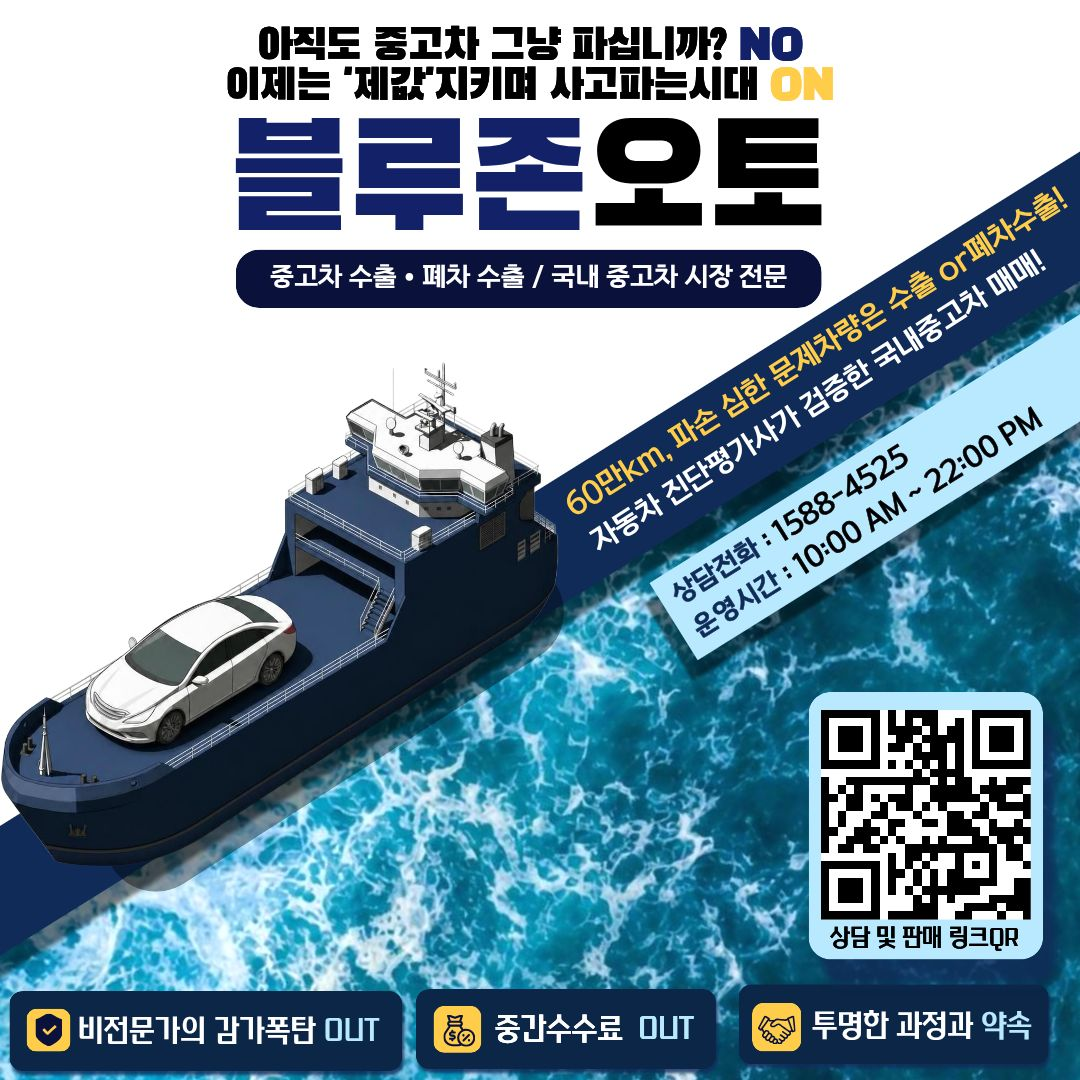
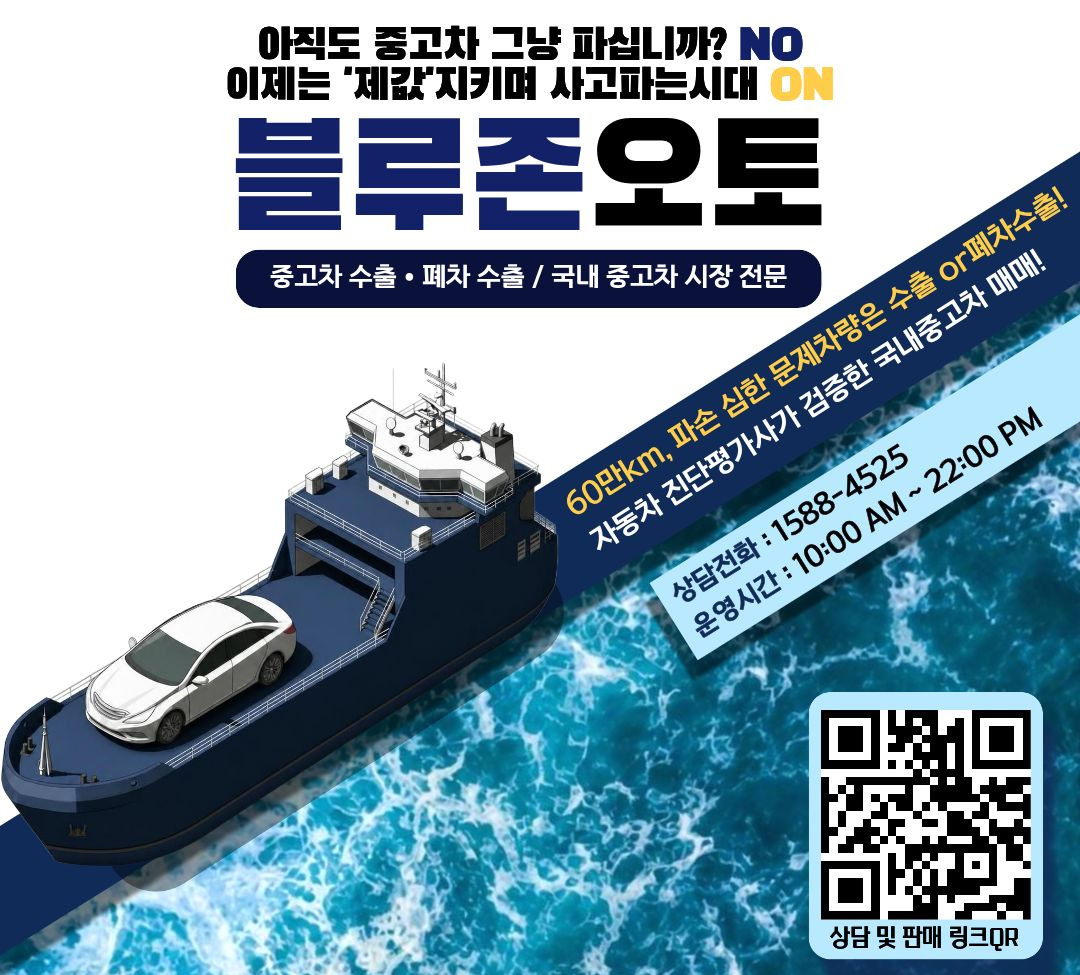
Add files via upload

diff --git a/index.html b/index.html
@@ -50,9 +50,9 @@ button,input,select,textarea{font:inherit;color:inherit}
 .logo.sm .tag{font-size:12px}.logo.sm .name{font-size:44px}.logo.sm .pill{font-size:11px;padding:4px 16px}
 
 /* ---------- HERO (원본 이미지 그대로 + 움직이는 물결) ---------- */
-.hero{position:relative;height:680px;background:#fff;overflow:hidden}
+.hero{position:relative;height:617px;background:#fff;overflow:hidden}
 .hero-scale{position:absolute;inset:0}
-.hero .top{position:absolute;left:0;top:0;width:680px;height:680px;display:block;object-fit:cover}
+.hero .top{position:absolute;left:0;top:0;width:680px;height:617px;display:block;object-fit:cover}
 .hero .zone{position:absolute;left:0;top:500px;width:681px;height:210px}
 .hero .wave{position:absolute;left:0;right:0;bottom:-2px;height:210px}
 .hero .wave svg{position:absolute;left:0;bottom:0;width:200%;height:100%;display:block;will-change:transform}
@@ -62,8 +62,9 @@ button,input,select,textarea{font:inherit;color:inherit}
 @keyframes drift{from{transform:translateX(0)}to{transform:translateX(-50%)}}
 @media (prefers-reduced-motion:reduce){.hero .wave svg{animation:none}}
 /* 히어로 아래 물결 띠 (예전 3겹 물결 그대로, 바다 텍스처 위에) */
-.waveband{--u:min(1px,calc(100vw / 680));position:relative;height:calc(150*var(--u));background:url(assets/hero_seafill.jpg) center/cover;overflow:hidden}
-.waveband svg{position:absolute;left:0;bottom:0;width:200%;height:100%;display:block;will-change:transform}
+.waveband{--u:min(1px,calc(100vw / 680));position:relative;z-index:1;height:calc(202*var(--u));margin-top:calc(-12*var(--u));background:url(assets/wave_bg.jpg) center/cover;overflow:hidden;-webkit-mask-image:linear-gradient(to bottom,rgba(0,0,0,0) 0,#000 calc(16*var(--u)));mask-image:linear-gradient(to bottom,rgba(0,0,0,0) 0,#000 calc(16*var(--u)))}
+.waveband .badges{position:absolute;left:0;top:calc(12*var(--u));width:100%;height:auto;display:block;filter:drop-shadow(0 4px 3px rgba(0,0,0,.35));z-index:2}
+.waveband svg{position:absolute;left:0;bottom:0;width:200%;height:calc(150*var(--u));display:block;will-change:transform}
 .waveband .w1{animation:drift 16s linear infinite}
 .waveband .w2{animation:drift 11s linear infinite reverse}
 .waveband .w3{animation:drift 8s linear infinite}
@@ -96,58 +97,59 @@ button,input,select,textarea{font:inherit;color:inherit}
 .pcard h3 .or-y{color:#E0A800}
 .pdesc{text-align:center;font-family:var(--thin);font-size:18px;line-height:1.55;padding:22px 0 26px;color:#fff}
 
-/* ---------- 해결 ---------- */
-.solve{padding:56px 24px 8px;text-align:center}
-.solve h2{font-family:var(--bold);font-size:48px;line-height:1.1;color:var(--navy);margin:0}
-/* 수출 / 국내 중고차 매매 소개 블록 */
-.svc{padding:34px 24px 44px;text-align:center}
-.svc .tagpill{display:inline-block;background:var(--sky-hl);color:var(--navy);font-family:var(--bold);font-size:28px;line-height:1;padding:10px 26px}
-.svc .photo{margin:22px -24px 0}
-.svc .photo img{width:100%;height:380px;object-fit:cover;display:block}
-.svc .q{font-family:var(--thin);font-size:24px;line-height:1.45;color:var(--navy);margin-top:24px}
-.svc .q b{font-family:var(--bold);font-weight:400;font-size:28px;display:inline-block;margin-top:6px}
-.svc .dest{font-family:var(--thin);font-size:20px;color:var(--navy);margin-top:16px}
-.svc .dest b{font-family:var(--bold);font-weight:400;background:var(--sun);padding:2px 10px}
-.svc+.doubt{padding-top:calc(20*var(--u))}
-
-/* ---------- 약속 ---------- */
-/* 카드(794px) 실측값을 680px 기준으로 환산, 화면이 좁아지면 카드처럼 통째로 비례 축소 */
-.promises,.doubt{--u:min(1px,calc(100vw / 680))}
-.promises{padding:calc(40*var(--u)) 24px calc(40*var(--u));text-align:center;border-top:1px solid #E3E7EE}
+/* ---------- 해결 ~ 운영 철칙: 사용자 PDF(645pt=680px) 실측값, --u로 휴대폰 비례 축소 ---------- */
+.pdfblk{--u:min(1px,calc(100vw / 680));text-align:center;color:var(--navy)}
+.pdfblk .solve{height:calc(221*var(--u));border-bottom:1px solid #E7E7E7;padding-top:calc(66*var(--u))}
+.pdfblk .solve h2{font-family:var(--bold);font-size:calc(48*var(--u));line-height:calc(50*var(--u));color:#102B56;margin:0}
+.pdfblk .svc .band{background:var(--navy);height:calc(104*var(--u));padding-top:calc(3*var(--u));color:#fff}
+.pdfblk .svc .band.tall{height:calc(166*var(--u));padding-top:calc(21*var(--u))}
+.pdfblk .svc .tag{display:inline-block;background:var(--sky-hl);color:var(--navy);font-family:var(--bold);font-size:calc(19*var(--u));line-height:calc(23*var(--u));padding:calc(4*var(--u)) calc(21*var(--u))}
+.pdfblk .svc .band p{font-family:var(--thin);font-style:italic;font-size:calc(20*var(--u));line-height:calc(28*var(--u));margin:calc(10*var(--u)) 0 0}
+.pdfblk .svc .photo{position:relative;line-height:0}
+.pdfblk .svc .photo img{width:100%;object-fit:cover;display:block}
+.pdfblk .svc .photo.ship img{height:calc(411*var(--u))}
+.pdfblk .svc .photo.lot img{height:calc(424*var(--u))}
+.pdfblk .svc .dest{position:absolute;right:calc(24*var(--u));bottom:calc(16*var(--u));color:#fff;font-family:var(--thin);font-size:calc(16*var(--u));line-height:1.2;text-shadow:0 1px 4px rgba(0,0,0,.5)}
+.pdfblk .rpill{display:inline-block;min-width:calc(269*var(--u));height:calc(44*var(--u));line-height:calc(44*var(--u));border-radius:calc(22*var(--u));background:var(--navy);color:#fff;font-family:var(--thin);font-size:calc(20*var(--u));box-shadow:0 calc(4*var(--u)) 0 rgba(0,0,0,.18)}
+.pdfblk .big{font-family:var(--bold);font-size:calc(41*var(--u));line-height:1;color:#102B56}
+.pdfblk .doubt{padding:calc(80*var(--u)) 0 calc(35*var(--u))}
+.pdfblk .doubt .big{margin-top:calc(27*var(--u))}
+.pdfblk .doubt h3{font-family:var(--bold);font-size:calc(25*var(--u));line-height:calc(28*var(--u));color:#102B56;margin:calc(8*var(--u)) 0 0;white-space:nowrap}
+.pdfblk .doubt h3 .hl-yb{font-size:calc(21.3*var(--u));line-height:calc(23*var(--u));padding:0 calc(8*var(--u));display:inline-block;margin-top:calc(4*var(--u))}
+.pdfblk .doubt .car{width:calc(270*var(--u));height:auto;margin:calc(23*var(--u)) auto 0;display:block}
+.pdfblk .doubt-band{background:var(--navy);color:#fff;font-family:var(--thin);font-size:calc(21*var(--u));line-height:calc(26*var(--u));padding:calc(35*var(--u)) 0 calc(43*var(--u));margin:0}
+.pdfblk .doubt-band .gap{height:calc(28*var(--u))}
+.pdfblk .doubt-band .y{color:var(--sun)}
+.pdfblk .domestic{padding:calc(65*var(--u)) 0 0;border-bottom:1px solid #31485F}
+.pdfblk .domestic .big{margin-top:calc(23*var(--u))}
+.pdfblk .domestic h3{font-family:var(--bold);font-size:calc(24*var(--u));line-height:calc(26*var(--u));color:#102B56;margin:calc(9*var(--u)) 0 0;white-space:nowrap}
+.pdfblk .domestic h3 .hl-yb{padding:calc(2*var(--u)) calc(8*var(--u))}
+.pdfblk .domestic .band{background:var(--navy);color:#fff;font-family:var(--thin);font-size:calc(18*var(--u));line-height:calc(33*var(--u));height:calc(33*var(--u));margin-top:calc(26*var(--u))}
+.pdfblk .domestic .pair{display:flex;align-items:center;justify-content:space-between;padding:calc(28*var(--u)) calc(23*var(--u)) 0}
+.pdfblk .domestic .pair .suv{width:calc(283*var(--u));height:calc(158*var(--u));object-fit:cover;display:block}
+.pdfblk .domestic .arrow{width:calc(50*var(--u));height:calc(40*var(--u));background:var(--navy);clip-path:polygon(0 30%,55% 30%,55% 0,100% 50%,55% 100%,55% 70%,0 70%)}
+.pdfblk .domestic .caps{display:flex;justify-content:space-between;padding:calc(8*var(--u)) calc(23*var(--u)) 0}
+.pdfblk .domestic .caps p{width:calc(283*var(--u));text-align:left;padding-left:calc(12*var(--u));margin:0;font-family:var(--thin);font-size:calc(18*var(--u));line-height:calc(24*var(--u));color:#132169;white-space:nowrap}
+.pdfblk .domestic .caps p .hl-b{padding:0 calc(4*var(--u))}
+.pdfblk .domestic .pair.icons{padding:calc(36*var(--u)) calc(23*var(--u)) 0;align-items:center}
+.pdfblk .domestic .ic1{width:calc(152*var(--u));height:auto;margin-left:calc(53*var(--u))}
+.pdfblk .domestic .ic2{width:calc(104*var(--u));height:auto;margin-right:calc(97*var(--u))}
+.pdfblk .domestic .caps.last{padding-top:calc(37*var(--u));padding-bottom:calc(85*var(--u))}
+.pdfblk .rules{background:var(--navy);height:calc(292*var(--u));padding-top:calc(97*var(--u))}
+.pdfblk .rules h2{font-family:var(--bold);font-size:calc(41*var(--u));line-height:calc(43*var(--u));color:#fff;margin:0}
 .pill{display:inline-block;background:var(--navy);color:#fff;font-family:var(--bold);font-size:26px;padding:6px 30px;border-radius:14px}
-.promises .pill{font-size:calc(38*var(--u));line-height:1.15;padding:calc(12*var(--u)) calc(38*var(--u));border-radius:calc(18*var(--u))}
-.qitem{padding:calc(24*var(--u)) 0 calc(36*var(--u));display:flex;flex-direction:column;align-items:center}
-.qitem+.qitem{border-top:1px solid #C9CDD6}
-.qitem img{height:calc(193*var(--u));width:auto;margin:calc(60*var(--u)) 0 0}
-.qitem h3{font-family:var(--bold);font-size:calc(32*var(--u));line-height:1.45;color:var(--navy);margin:calc(24*var(--u)) 0 0}
-.qitem p{font-family:var(--thin);font-size:calc(24*var(--u));line-height:1.5;color:var(--ink);margin-top:calc(20*var(--u))}
-
-/* ---------- 설마 (파손차) ---------- */
-.doubt{padding:calc(70*var(--u)) 24px 0;text-align:center}
-.doubt .big{font-family:var(--bold);font-size:calc(50*var(--u));color:var(--navy);line-height:1;margin-bottom:calc(10*var(--u))}
-.doubt h3{font-family:var(--bold);font-size:calc(31*var(--u));color:var(--navy);line-height:1.07;margin:0;white-space:nowrap}
-.doubt h3 .hl-yb{font-size:calc(27*var(--u));padding:calc(3*var(--u)) calc(8*var(--u));display:inline-block;margin-top:calc(5*var(--u))}
-.doubt img{width:calc(400*var(--u));margin:calc(33*var(--u)) auto 0}
-.doubt .ok{display:inline-block;background:var(--navy);color:#fff;font-family:var(--thin);font-size:calc(21*var(--u));line-height:1;padding:calc(6*var(--u)) calc(20*var(--u));border-radius:999px;margin-top:calc(19*var(--u));box-shadow:0 4px 0 rgba(0,0,0,.15)}
-.doubt-band{background:var(--navy);color:#fff;text-align:center;padding:40px 24px 44px;margin-top:22px;font-family:var(--thin);font-size:20px;line-height:1.45}
-.doubt-band .gap{height:22px}
-/* ---------- 국내 중고차 매매 (카드 3번, 사이트 크기에 맞춰 키움, --u 비례 축소) ---------- */
-.domestic{--u:min(1px,calc(100vw / 680));padding:calc(40*var(--u)) 0 calc(50*var(--u));text-align:center;background:#fff;border-top:1px solid #E3E7EE}
-.domestic .dpill{display:inline-block;background:var(--navy);color:#fff;font-family:var(--thin);font-size:calc(26*var(--u));line-height:1;padding:calc(12*var(--u)) calc(50*var(--u));border-radius:999px;box-shadow:0 4px 0 rgba(0,0,0,.15)}
-.domestic .big{font-family:var(--bold);font-size:calc(46*var(--u));color:var(--navy);line-height:1;margin-top:0}
-.domestic h3{font-family:var(--bold);font-size:calc(26*var(--u));color:var(--navy);line-height:1.5;margin:calc(8*var(--u)) 0 0;white-space:nowrap}
-.domestic h3 .hl-yb{padding:calc(2*var(--u)) calc(8*var(--u))}
-.domestic .band{background:var(--navy);color:#fff;font-family:var(--thin);font-size:calc(24*var(--u));line-height:1;padding:calc(13*var(--u)) 0;margin-top:calc(28*var(--u))}
-.domestic .pair{display:flex;align-items:center;justify-content:center;gap:calc(12*var(--u));padding:calc(18*var(--u)) calc(14*var(--u)) 0}
-.domestic .gbox{flex:0 0 calc(290*var(--u));background:#EEEEEE;padding-bottom:calc(10*var(--u))}
-.domestic .gbox img{width:100%;height:calc(176*var(--u));object-fit:cover;display:block}
-.domestic .gbox p,.domestic .ibox p{font-family:var(--bold);font-size:calc(19*var(--u));color:var(--navy);margin:calc(12*var(--u)) 0 0;white-space:nowrap}
-.domestic .gbox p .hl-b,.domestic .ibox p .hl-b{padding:0 calc(5*var(--u))}
-.domestic .arrow{flex:0 0 calc(50*var(--u));height:calc(50*var(--u));background:var(--navy);clip-path:polygon(0 30%,55% 30%,55% 0,100% 50%,55% 100%,55% 70%,0 70%)}
-.domestic .pair.icons{padding-top:calc(30*var(--u));align-items:flex-start}
-.domestic .ibox{flex:0 0 calc(290*var(--u))}
-.domestic .ibox img{height:calc(130*var(--u));width:auto;margin:0 auto calc(26*var(--u))}
-.domestic .ibox p{margin-top:0}
+.pdfblk .promises{padding:0 0 calc(40*var(--u))}
+.pdfblk .promises .pill{font-size:calc(24*var(--u));line-height:calc(44*var(--u));height:calc(44*var(--u));padding:0 calc(33*var(--u));border-radius:calc(12*var(--u));min-width:calc(130*var(--u));box-shadow:none}
+.pdfblk .qitem{display:flex;flex-direction:column;align-items:center;padding:calc(28*var(--u)) 0 calc(38*var(--u))}
+.pdfblk .qitem+.qitem{border-top:1px solid #D7D7D7;margin:0 calc(45*var(--u));padding-top:calc(21*var(--u))}
+.pdfblk .qitem img{display:block;margin:calc(38*var(--u)) 0 0}
+.pdfblk .qitem .i1{width:calc(156*var(--u));margin-top:calc(38*var(--u))}
+.pdfblk .qitem .i2{width:calc(149*var(--u));margin-top:calc(42*var(--u))}
+.pdfblk .qitem .i3{width:calc(110*var(--u));margin-top:calc(44*var(--u))}
+.pdfblk .qitem h3{font-family:var(--bold);font-size:calc(24*var(--u));line-height:calc(27*var(--u));color:#102B56;margin:calc(24*var(--u)) 0 0}
+.pdfblk .qitem h3 .hl-y{padding:0 calc(8*var(--u))}
+.pdfblk .qitem p{font-family:var(--thin);font-size:calc(17*var(--u));line-height:calc(22*var(--u));color:#111;margin-top:calc(17*var(--u))}
+.pdfblk .qitem p .hl-b{padding:0 calc(4*var(--u))}
 
 /* ---------- 3단계 ---------- */
 .steps{padding:64px 24px 40px}
@@ -270,7 +272,7 @@ legend .req{font-size:12px;color:#C62828;font-family:var(--thin)}
 .apply .flow .num{background:var(--sun);color:var(--navy);padding:0 6px;font-family:var(--bold)}
 
 /* ---------- 추가 판매옵션 ---------- */
-.options{background:var(--sky);padding:0 0 60px}
+.options{background:var(--sky);padding:0}
 .options .top{padding:60px 24px 0;text-align:center}
 .options .pill{font-family:var(--thin);font-size:28px;padding:8px 46px;border-radius:22px;background:var(--navy)}
 .options .note{margin-top:12px;font-family:var(--thin);font-size:18px;line-height:1.5}
@@ -288,7 +290,6 @@ legend .req{font-size:12px;color:#C62828;font-family:var(--thin)}
 .ocard .box.dark{background:var(--navy);color:#fff}
 .ocard .box.light{background:var(--sky-hl);color:var(--navy)}
 .ocard .ex{margin-top:18px;font-family:var(--thin);font-size:17px;line-height:1.5;color:var(--navy)}
-.options .spacer{background:var(--sky);height:48px}
 
 /* ---------- 폼 메시지 박스 ---------- */
 .fmsg{display:none;margin:14px auto 0;max-width:520px;padding:16px 18px;border-radius:14px;font-family:var(--thin);font-size:16px;line-height:1.6;text-align:center;white-space:pre-line}
@@ -298,8 +299,8 @@ legend .req{font-size:12px;color:#C62828;font-family:var(--thin)}
 .fmsg b{font-family:var(--bold);font-weight:400}
 
 /* ---------- 마무리 배너 ---------- */
-.outro{background:#fff;text-align:center;padding-top:30px}
-.outro .logo-img{width:282px;max-width:80%;height:auto;margin:0 auto 22px}
+.outro{background:#fff;text-align:center;padding-top:44px}
+.outro .logo-img{width:420px;max-width:88%;height:auto;margin:0 auto 30px}
 .ocard .logo-img{width:183px;height:auto}.ocard .logo-img.s{width:146px}
 .outro .logo .tag{color:#141414}
 .outro .logo .tag .no{color:#16246B}
@@ -350,13 +351,11 @@ footer .copy{margin-top:22px;font-size:12px;color:#9AA3B2}
   :root{--col:100%}
   .page{box-shadow:none}
   /* 히어로: 680px 캔버스를 화면 폭에 맞춰 통째로 축소 (PDF 비율 유지) */
-  .hero-scale{position:absolute;left:0;top:0;width:680px;height:680px;transform-origin:top left}
+  .hero-scale{position:absolute;left:0;top:0;width:680px;height:617px;transform-origin:top left}
   .ask h2{font-size:28px}
   .ask .btns{gap:10px}.ask .btn{width:46%;font-size:17px;height:50px}
   .ask .info{font-size:15px}
   .cars h2{font-size:40px}.cars h3{font-size:19px}
-  .solve{padding-top:40px}.solve h2{font-size:34px}
-  .svc .tagpill{font-size:21px;padding:8px 18px}.svc .photo img{height:230px}.svc .q{font-size:18px}.svc .q b{font-size:21px}.svc .dest{font-size:15px}
   .pcard img{height:180px}.pcard h3{font-size:22px}
   .steps .pill{font-size:24px;padding:8px 30px}
   .step{grid-template-columns:120px 1fr;gap:10px}.step .no{left:38px}
@@ -372,7 +371,6 @@ footer .copy{margin-top:22px;font-size:12px;color:#9AA3B2}
   .apply .flow{padding:26px 22px 34px}.apply .flow h4{font-size:20px}.apply .flow p{font-size:16px}
   .options .heads div{font-size:12px}
   .options .cards{gap:8px;padding:12px 10px 0;background:var(--sky);position:relative;z-index:1}
-  .options .spacer{z-index:1}
   .ocard{padding:18px 8px 18px}.logo.sm .name{font-size:32px}.logo.sm .tag{font-size:9px}.logo.sm .pill{font-size:9px;padding:3px 10px}
   .ocard .box{font-size:14px}.ocard .ex{font-size:14px}
   .outro .sea{height:380px;background-position:center center;background-size:cover}.outro .sea .msg{font-size:18px;left:16px;top:16px;right:16px;width:auto}
@@ -392,6 +390,7 @@ footer .copy{margin-top:22px;font-size:12px;color:#9AA3B2}
  </div>
 </section>
 <div class="waveband" aria-hidden="true">
+  <img class="badges" src="assets/badges.png" alt="비전문가의 감가폭탄 OUT · 중간수수료 OUT · 투명한 과정과 약속">
   <svg class="w1" viewBox="0 0 1360 230" preserveAspectRatio="none"><path d="M0,45 C170,5 170,85 340,45 C510,5 510,85 680,45 C850,5 850,85 1020,45 C1190,5 1190,85 1360,45 L1360,230 L0,230 Z" fill="#0B2647" opacity=".55"/></svg>
   <svg class="w2" viewBox="0 0 1360 230" preserveAspectRatio="none"><path d="M0,95 C170,50 170,140 340,95 C510,50 510,140 680,95 C850,50 850,140 1020,95 C1190,50 1190,140 1360,95 L1360,230 L0,230 Z" fill="#0B2647"/></svg>
   <svg class="w3" viewBox="0 0 1360 230" preserveAspectRatio="none"><path d="M0,165 C170,125 170,205 340,165 C510,125 510,205 680,165 C850,125 850,205 1020,165 C1190,125 1190,205 1360,165 L1360,230 L0,230 Z" fill="#ffffff"/></svg>
@@ -428,78 +427,67 @@ footer .copy{margin-top:22px;font-size:12px;color:#9AA3B2}
   <p class="pdesc" style="padding-bottom:6px">불투명한 거래 과정과<br><span class="hl-b">약속과는 다른 금액</span></p>
 </section>
 
-<!-- ================= 해결 ================= -->
-<section class="solve" id="promise">
-  <h2>이제는 블루존오토가<br>해결하겠습니다!</h2>
-</section>
+<!-- ================= 해결 ~ 운영 철칙 (사용자 PDF 5-17 실측 그대로) ================= -->
+<div class="pdfblk">
+<section class="solve" id="promise"><h2>“이제는 블루존오토가<br>해결하겠습니다!”</h2></section>
 
-<!-- ================= 수출 or 수출폐차 ================= -->
 <section class="svc">
-  <span class="tagpill">수출 or 수출폐차</span>
-  <div class="photo"><img src="assets/ship_export.jpg" alt="컨테이너를 실은 수출 화물선"></div>
-  <p class="q">60만km? 파손이 심한 차량?<br><b>모두 제값을 받을 수 있습니다.</b></p>
-  <p class="dest">주요수출국 : <b>러시아 / 몽골 / 중동 / 아프리카</b></p>
+  <div class="band"><span class="tag">수출 or 수출폐차</span><p>60만km? 파손이 심한차량?<br>모두 제값을 받을 수 있습니다.</p></div>
+  <div class="photo ship"><img src="assets/ship_pdf.jpg" alt="컨테이너를 실은 수출 화물선"><span class="dest">주요수출국: 러시아 / 몽골 / 중동 / 아프리카</span></div>
 </section>
 
-<!-- ================= 설마 (파손차) ================= -->
+<section class="svc">
+  <div class="band tall"><span class="tag">국내 중고차 매매</span><p>자동차 진단평가사가<br>검증한 차량과 매매가격으로<br>이제는 안심할 수 있습니다.</p></div>
+  <div class="photo lot"><img src="assets/cars_pdf.jpg" alt="전시된 국내 중고차들"></div>
+</section>
+
 <section class="doubt">
+  <span class="rpill">수출 / 폐차수출</span>
   <div class="big">설마,</div>
   <h3>내 차가 오래되고,<br>연식도 60만km라서?<br>너무 기스가 많고, 파손이 심한 문제차량이라서?<br><span class="hl-yb">판매가 될까 걱정되십니까?</span></h3>
-  <img src="assets/car_wrecked_hd.jpg" alt="">
-  <span class="ok">파손이 심한 차량도 OK</span>
+  <img class="car" src="assets/car_wrecked_hd.jpg" alt="파손이 심한 차량">
 </section>
 <div class="doubt-band">
-  걱정은 이제 그만!<br><span class="y">이렇게 파손된 차량도,<br>그 어떤 차도 가능합니다!</span>
+  걱정은 이제 그만!<br><span class="y">파손된 차량도, 그 어떤 차도 가능합니다!</span>
   <div class="gap"></div>
-  <span class="y">수출 바이어는</span> 부품과 차대의 가치를,<br><span class="y">폐차는</span> 중량과 재활용의 가치를 봅니다.
+  <span class="y">수출바이어는</span> 부품과 차대의가치, 그리고<br>중량과 재활용의 가치를 보기 때문입니다.
 </div>
 
-<!-- ================= 국내 중고차 매매 ================= -->
-<section class="svc">
-  <span class="tagpill">국내 중고차 매매</span>
-  <div class="photo"><img src="assets/cars_lot.jpg" alt="전시된 국내 중고차들"></div>
-  <p class="q">자동차 진단평가사가 검증한<br>차량과 매매가격으로<br><b>이제는 안심할 수 있습니다.</b></p>
-</section>
-
-<!-- ================= 국내 중고차 매매 (카드 3번 그대로) ================= -->
 <section class="domestic">
+  <span class="rpill">국내 중고차 매매</span>
   <div class="big">설마,</div>
   <h3>상태가 좋은 차량임에도<br>제값 받지 못하고 판매할까봐?<br>또는 이런저런 이유로 <span class="hl-yb">구매를 망설이고 있다면?</span></h3>
   <div class="band">1) 차대차 교환(운행중인차 매입교환)</div>
-  <div class="pair">
-    <div class="gbox"><img src="assets/suv_old.jpg" alt="2018년식 모하비"><p><span class="hl-b">예시)</span> 2018년식 모하비 교환+추가금</p></div>
-    <span class="arrow"></span>
-    <div class="gbox"><img src="assets/suv_new.jpg" alt="2022년식 모하비"><p><span class="hl-b">예시)</span> 2022년식 모하비로 교환</p></div>
-  </div>
+  <div class="pair"><img class="suv" src="assets/suv_old.jpg" alt="2018년식 모하비"><span class="arrow"></span><img class="suv" src="assets/suv_new.jpg" alt="2022년식 모하비"></div>
+  <div class="caps"><p><span class="hl-b">예시)</span> 2018년식 모하비 교환+추가금</p><p><span class="hl-b">예시)</span> 2022년식 모하비로 교환</p></div>
   <div class="band">2) 저신용 무조건 할부</div>
-  <div class="pair icons">
-    <div class="ibox"><img src="assets/icon_fraud.png" alt=""><p><span class="hl-b">예시)</span> 저신용자 대상 (파산은 불가능)</p></div>
-    <span class="arrow"></span>
-    <div class="ibox"><img src="assets/icon_receipt.png" alt=""><p><span class="hl-b">예시)</span> 상담 후 할부상담 가능</p></div>
-  </div>
+  <div class="pair icons"><img class="ic1" src="assets/icon_fraud.png" alt=""><span class="arrow"></span><img class="ic2" src="assets/icon_receipt.png" alt=""></div>
+  <div class="caps last"><p><span class="hl-b">예시)</span> 저신용자 대상 (파산은 불가능)</p><p><span class="hl-b">예시)</span> 상담 후 할부상담 가능</p></div>
 </section>
 
-<!-- ================= 약속 ================= -->
+<section class="rules"><h2>“블루존오토의<br>운영 철칙 세가지”</h2></section>
+
 <section class="promises">
   <div class="qitem">
     <span class="pill">1.약속</span>
-    <img src="assets/q_appraiser.png" alt="">
+    <img class="i1" src="assets/p_appraiser.png" alt="">
     <h3>전문가의 매매견적가로<br><span class="hl-y">제값 +@</span></h3>
-    <p>국토교통부공인 <span class="hl-b">[자동차진단평가사]</span>의<br>매매견적가로 안전하게!</p>
+    <p>국토교통부공인<br><span class="hl-b">[자동차진단평가사]</span>의 매매견적가로 안전하게!</p>
   </div>
   <div class="qitem">
     <span class="pill">2.약속</span>
-    <img src="assets/q_bankbook.png" alt="">
-    <h3><span class="hl-y">중간 수수료</span>를 타파!<br>고객에게 더 많이</h3>
-    <p>쓸데없는 중계료를 타파!<br><span class="hl-b">수수료를 없애고</span><br>고객에게 드립니다.</p>
+    <img class="i2" src="assets/p_bankbook.png" alt="">
+    <h3><span class="hl-y">중간 수수료를 타파!</span><br>고객에게 더 많이</h3>
+    <p>쓸데없는 중계료를 타파!<br><span class="hl-b">수수료를 없애고</span> 고객에게 드립니다</p>
   </div>
-  <div class="qitem" style="padding-bottom:10px">
+  <div class="qitem">
     <span class="pill">3.약속</span>
-    <img src="assets/handshake_promise.png" alt="">
+    <img class="i3" src="assets/p_handshake.png" alt="">
     <h3>투명한 과정공개!<br><span class="hl-y">약속과 동일한 금액</span></h3>
     <p>거래과정을 실시간으로 공개!<br><span class="hl-b">약속과 동일한 금액</span>이 아닐시 전액환불!</p>
   </div>
 </section>
+</div>
 
 <!-- ================= 3단계 ================= -->
 <section class="steps" id="process">
@@ -706,7 +694,6 @@ footer .copy{margin-top:22px;font-size:12px;color:#9AA3B2}
       <p class="ex">예시: 15만원 외장 수리 후<br><span class="hl-y">600만원에 판매</span><br>(탁송으로 진행 및<br>전과정 알림 발송)</p>
     </div>
   </div>
-  <div class="spacer"></div>
 </section>
 
 <!-- ================= 마무리 배너 ================= -->
@@ -755,7 +742,7 @@ footer .copy{margin-top:22px;font-size:12px;color:#9AA3B2}
 
 <script>
 // 모바일: 히어로(680px 캔버스)를 화면 폭에 맞춰 통째로 축소
-(function(){var h=document.querySelector('.hero'),c=document.querySelector('.hero-scale');function fit(){var w=h.clientWidth;if(w<680){var k=w/680;c.style.transform='scale('+k+')';h.style.height=(680*k)+'px';}else{c.style.transform='';h.style.height='';}}fit();addEventListener('resize',fit);})();
+(function(){var h=document.querySelector('.hero'),c=document.querySelector('.hero-scale');function fit(){var w=h.clientWidth;if(w<680){var k=w/680;c.style.transform='scale('+k+')';h.style.height=(617*k)+'px';}else{c.style.transform='';h.style.height='';}}fit();addEventListener('resize',fit);})();
 // 연식 옵션
 (function(){var y=document.getElementById('year');var now=new Date().getFullYear();for(var i=now;i>=1990;i--){var o=document.createElement('option');o.textContent=i+'년';o.value=i;y.appendChild(o);}})();
 // 사진 올리는 방법 택1: bulk(한 번에) / guided(한 장씩) / none(사진 없음, 견적 탭 전용)
